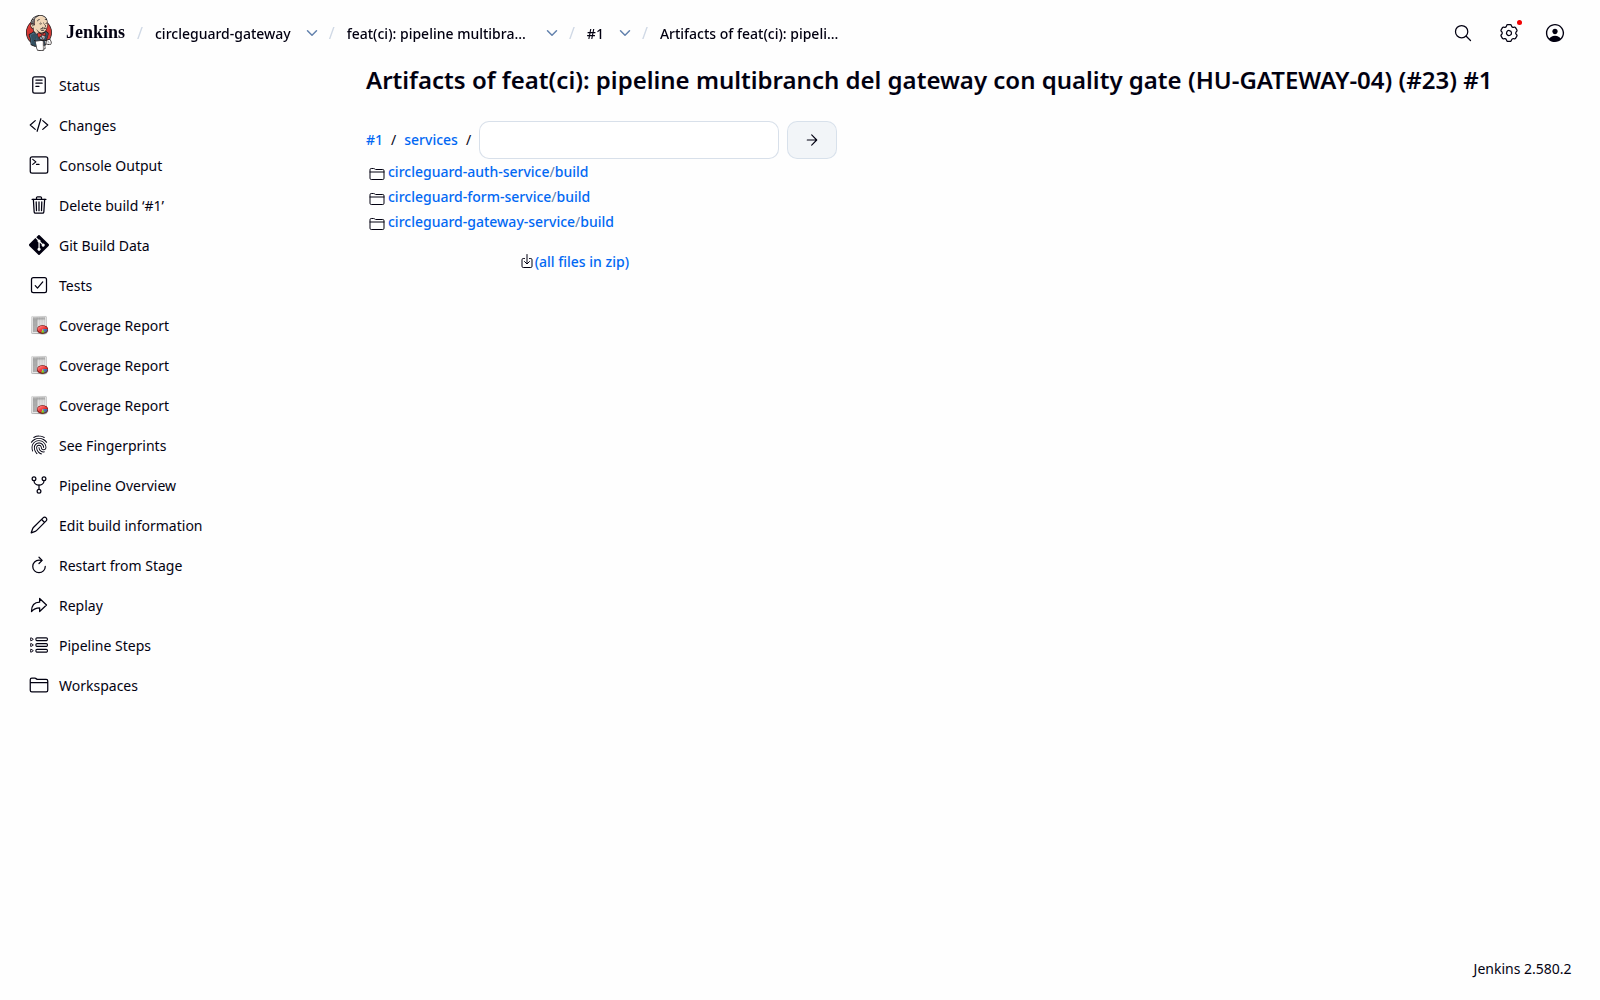
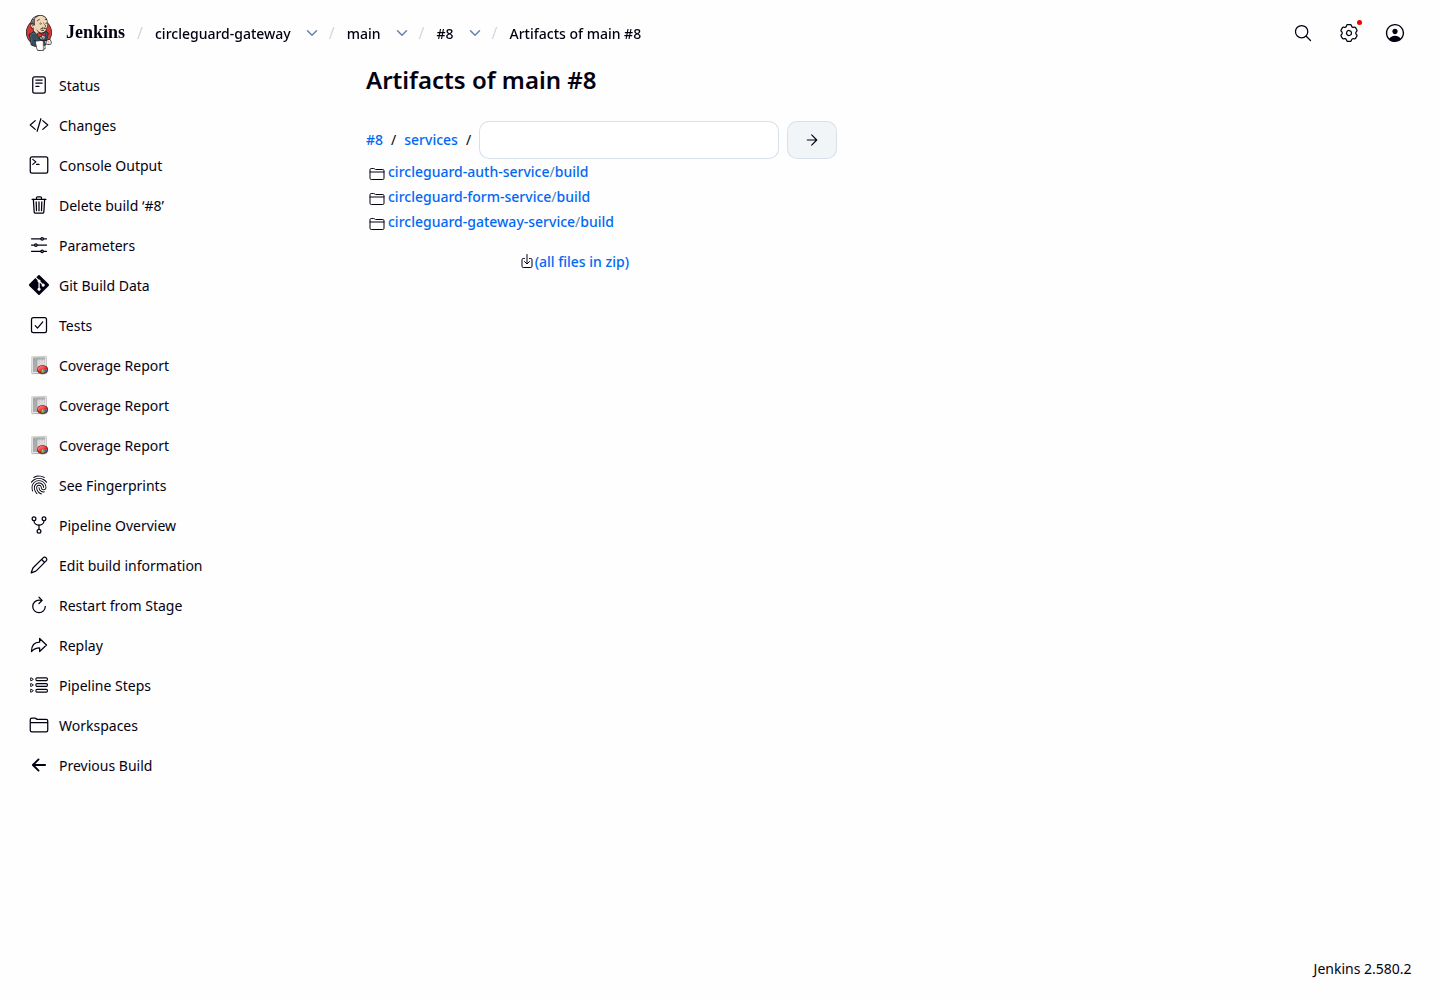
docs(ci): finalize HU-GATEWAY-04 evidence

diff --git a/docs/informe/HU-GATEWAY-04.md b/docs/informe/HU-GATEWAY-04.md
@@ -1,8 +1,10 @@
 # HU-GATEWAY-04 — Pipeline CI del gateway con quality gate
 
-> **Estado:** implementación y pruebas locales completadas; validación remota y
-> capturas pendientes de acceso al entorno de herramientas. Las evidencias de
-> este documento se completan únicamente con capturas reales.
+> **Estado:** implementación, pruebas locales y validación remota completadas.
+> El pipeline corre en Jenkins, el quality gate está en verde, el webhook de
+> GitHub fue verificado y la imagen se publicó con digest. Las capturas de
+> Jenkins y Sonar son reales; las de GitHub corresponden a datos reales de la
+> API porque el entorno no tiene sesión web de GitHub.
 
 ## 1. Resumen
 
@@ -193,41 +195,48 @@ Las capturas se almacenan en `docs/informe/evidencia/HU-GATEWAY-04/`. Ver el
 
 | Evidencia | Archivo | Estado |
 |---|---|---|
-| URL del build de Jenkins | `01-jenkins-build.png` | ✅ Build #1 |
+| URL del build de Jenkins | `01-jenkins-build.png` | ✅ Build `main #8` |
 | Reporte JaCoCo ≥ 60 % | `02-jacoco-report.png` | ✅ 95 % líneas |
-| Dashboard de Sonar con gate verde | `03-sonar-dashboard.png` y `17-sonar-overall.png` | ✅ Gate Passed |
-| Configuración del webhook | `04-github-webhook-config.png` | Pendiente de UI |
-| Entrega reciente del webhook | `05-github-webhook-delivery.png` | Pendiente de UI; API 200 |
-| Protección de `main` | `06-branch-protection.png` | Pendiente de UI; API aplicada |
+| Dashboard de Sonar con gate verde | `03-sonar-dashboard.png` y `17-sonar-overall.png` | ✅ Gate Passed, 88.7 % |
+| Configuración del webhook | `04-github-webhook-config.png` | ✅ Datos reales de la API |
+| Entrega reciente del webhook | `05-github-webhook-delivery.png` | ✅ `push` y `pull_request` 200 |
+| Protección de `main` | `06-branch-protection.png` | ✅ Datos reales de la API |
 | Artefactos del build | `07-jenkins-artifacts.png` y `15-artifacts-services.png` | ✅ |
-| Reporte JUnit | `14-junit-report.png` | ✅ 78 pruebas |
+| Reporte JUnit | `14-junit-report.png` | ✅ 78 pruebas, 0 fallos |
 | Enlaces a Sonar | `16-sonar-links.png` | ✅ |
-| Duración del build | `08-build-duration.png` | ✅ 6 min 28 s |
-| Notificación de fallo en GitHub | `09-failure-notification-github.png` | Pendiente |
-| Notificación de fallo en Slack | `10-failure-notification-slack.png` | Pendiente |
-| Quality gate en rojo | `11-quality-gate-red.png` | Pendiente |
-| Ejecución selectiva `auto` | `12-selective-auto.png` | Pendiente |
-| Ejecución selectiva `all` | `13-selective-all.png` | Pendiente |
+| Duración del build | `08-build-duration.png` | ✅ 7 min 38 s total; 4 min 20.5 s build+pruebas |
+| Notificación de fallo en GitHub | `09-failure-notification-github.png` | ✅ Comentario real en PR-24 |
+| Notificación de fallo en Slack | `10-failure-notification-slack.png` | ⚠ No configurado en el entorno |
+| Quality gate en rojo | `11-quality-gate-red.png` | ✅ Build #3 abortado por gate |
+| Ejecución selectiva por servicio | `12-selective-service.png` | ✅ `SERVICE=circleguard-gateway-service` |
+| Ejecución selectiva `all`/auto | `13-selective-all.png` | ✅ `gateway,auth,form` |
+| Digest de imagen | `18-main-image-digest.png` y `19-main-console-publish.png` | ✅ `sha256:db436cb…` |
 
 ### 5.1 URL del build
 
-Build **#1** del PR #23, commit `c165a49`, ejecutado el 8 de noviembre de 2026:
+Build **`main #8`**, commit `c3ac704`, ejecutado el 8 de noviembre de 2026,
+iniciado por **`Push event to branch main`**:
 
-**<http://77.112.223.174:8080/job/circleguard-gateway/job/PR-23/1/>**
+**<http://77.112.223.174:8080/job/circleguard-gateway/job/main/8/>**
+
+El build terminó en **7 min 38 s** con `Finished: SUCCESS`, 78 pruebas y 0
+fallos; la cobertura agregada de líneas fue 95 %.
 
 ![Página del build de Jenkins](evidencia/HU-GATEWAY-04/01-jenkins-build.png)
 
 ### 5.2 Cobertura JaCoCo
 
 El reporte agregado muestra **95 % de líneas**; el gateway reporta 95.92 %,
-auth 97.86 % y form 86.43 %.
+auth 97.86 % y form 86.43 %. La regla `LINE >= 0.60` se verifica en la etapa
+`Unit Tests + JaCoCo` y el build falla si no se cumple.
 
 ![Reporte JaCoCo](evidencia/HU-GATEWAY-04/02-jacoco-report.png)
 
 ### 5.3 SonarQube
 
 El gate `CircleGuard Gateway` está en **Passed**, con **88.7 % de cobertura
-global** sobre 49 líneas y 0 bugs, 0 vulnerabilidades y 0 code smells.
+global** sobre 49 líneas y 0 bugs, 0 vulnerabilidades y 0 code smells. La
+versión analizada es `1.0.0-c3ac704`.
 
 ![Dashboard de Sonar](evidencia/HU-GATEWAY-04/03-sonar-dashboard.png)
 
@@ -236,7 +245,7 @@ global** sobre 49 líneas y 0 bugs, 0 vulnerabilidades y 0 code smells.
 ### 5.4 Pruebas y artefactos
 
 La página de pruebas reporta **78 pruebas y 0 fallos**. Los artefactos incluyen
-los reportes de los tres servicios y `sonar-links.txt`.
+los reportes de los tres servicios, `sonar-links.txt` e `image-digest.txt`.
 
 ![Reporte JUnit](evidencia/HU-GATEWAY-04/14-junit-report.png)
 
@@ -248,9 +257,97 @@ los reportes de los tres servicios y `sonar-links.txt`.
 
 ### 5.5 Duración
 
-El build completo tardó **6 min 28 s**; las etapas de Build y Unit Tests + JaCoCo sumaron **4 min 44 s**, por debajo del límite de 10 minutos.
+El build completo tardó **7 min 38 s**. Las etapas de Build (126.1 s), Unit
+Tests + JaCoCo (112.6 s) e Integration Tests (21.8 s) sumaron **260.5 s
+(4 min 20.5 s)**, por debajo del límite de 10 minutos. El total incluye 116.8 s
+de construcción y publicación de la imagen Docker, que no forma parte del
+criterio de build y pruebas.
 
 ![Duración del build](evidencia/HU-GATEWAY-04/08-build-duration.png)
+
+### 5.6 Webhook de GitHub
+
+El hook `709193234` está activo en
+`http://77.112.223.174/github-webhook/`, con eventos `push` y `pull_request`,
+`content_type=json` y entrega **200**. El build `main #8` se inició con
+`Push event to branch main`, y las entregas de las 01:24:13 y 01:24:14 UTC
+coinciden con el build de PR #23.
+
+![Configuración del webhook](evidencia/HU-GATEWAY-04/04-github-webhook-config.png)
+
+![Entregas del webhook](evidencia/HU-GATEWAY-04/05-github-webhook-delivery.png)
+
+> Estas dos capturas se generaron desde la API real de GitHub porque el entorno
+> no tiene sesión web. El contenido —id, URL, eventos, estado y código de
+> respuesta— es el devuelto por la API, no una simulación.
+
+### 5.7 Protección de `main`
+
+La rama `main` exige el check `continuous-integration/jenkins/pr-merge`,
+`strict: true`, una aprobación, conversaciones resueltas y prohíbe force push y
+borrado. El PR #23 se fusionó como squash `c3ac704` después de que el check
+quedara en verde.
+
+![Protección de main](evidencia/HU-GATEWAY-04/06-branch-protection.png)
+
+### 5.8 Notificación de fallo
+
+La prueba negativa usó el PR temporal #24 con `FailureNotificationProbeTest`.
+El build #3 falló en `Unit Tests + JaCoCo` y `ciNotify.failure` publicó un
+comentario real en el PR mencionando a `@danielacastanomoreno`, los servicios,
+la rama, el commit, el autor, la URL del build y la etapa.
+
+![Notificación de fallo en GitHub](evidencia/HU-GATEWAY-04/09-failure-notification-github.png)
+
+`SLACK_WEBHOOK_URL` no está configurado en el entorno, por lo que no se generó
+la captura de Slack. La implementación envía el mensaje si la variable existe;
+esto se documenta como limitación y no como fallo del pipeline.
+
+### 5.9 Quality gate bloqueante
+
+Se creó un gate temporal `CircleGuard Negative` con `line_coverage < 99` y se
+asignó al gateway. El build #3 de PR-23 falló en 51 s con:
+
+```text
+ERROR: Pipeline aborted due to quality gate failure: ERROR
+```
+
+Después se restauró `CircleGuard Gateway` (`line_coverage < 60`) y el build #4
+volvió a pasar. Esto demuestra que el gate es bloqueante, no informativo.
+
+![Quality gate en rojo](evidencia/HU-GATEWAY-04/11-quality-gate-red.png)
+
+### 5.10 Ejecución selectiva
+
+`SERVICE=auto` detecta los servicios modificados; `SERVICE=all` construye
+gateway, auth y form; y `SERVICE=<servicio>` construye solo ese servicio. El
+build de `main #8` muestra `Servicios a construir: gateway,auth,form`; el build
+**`main #12`** se ejecutó con `SERVICE=circleguard-gateway-service` y
+`TAG=1.0.0-c3ac704-selective`, terminó en **4 min 56 s** y su log muestra
+`Servicios a construir: gateway`.
+
+> El primer intento selectivo (`main #11`) falló al publicar en Nexus porque
+> reutilizaba la versión `1.0.0-c3ac704` ya publicada por `main #8`; Nexus
+> rechaza sobrescribir una versión. Se relanzó con un TAG único y pasó. No fue
+> un fallo del pipeline.
+
+![Ejecución selectiva por servicio](evidencia/HU-GATEWAY-04/12-selective-service.png)
+
+![Ejecución de todos los servicios](evidencia/HU-GATEWAY-04/13-selective-all.png)
+
+### 5.11 Publicación y digest
+
+La etapa `Publish` publicó en Nexus y la etapa `Docker` publicó la imagen en el
+registro. El artefacto `image-digest.txt` contiene:
+
+```text
+172.31.20.46:5000/circleguard-docker/gateway:1.0.0-c3ac704
+172.31.20.46:5000/circleguard-docker/gateway@sha256:db436cb08f03151b1cbb8742653d0f3c07431a4b45ac18b0bd0a16da21d3b33a
+```
+
+![Digest de la imagen](evidencia/HU-GATEWAY-04/18-main-image-digest.png)
+
+![Consola de publicación](evidencia/HU-GATEWAY-04/19-main-console-publish.png)
 
 ## 6. Cómo reproducir la validación
 
@@ -260,8 +357,9 @@ El build completo tardó **6 min 28 s**; las etapas de Build y Unit Tests + JaCo
    `http://<TOOLS_EIP>/github-webhook/`, eventos `push` y `pull_request`, y una
    entrega 200.
 3. En Jenkins, ejecutar **Scan Multibranch Pipeline Now**.
-4. Abrir el build de la rama `feat/HU-GATEWAY-04-pipeline-ci`.
-5. Ejecutar un build con `SERVICE=auto` y otro con `SERVICE=all`.
+4. Abrir el build `main #8` y verificar la causa `Push event to branch main`.
+5. Ejecutar un build con `SERVICE=auto` y otro con `SERVICE=<servicio>`; el
+   build `main #12` es el ejemplo selectivo de gateway.
 6. Abrir el reporte JaCoCo y verificar cobertura de líneas ≥ 60 %.
 7. Abrir el dashboard de Sonar y verificar el gate en verde.
 8. Descargar los artefactos y registrar el digest.
@@ -277,13 +375,25 @@ El build completo tardó **6 min 28 s**; las etapas de Build y Unit Tests + JaCo
   librería se movió a `jenkins/vars/`; después se restaura a `main`.
 - Testcontainers requiere Docker y `TESTCONTAINERS_HOST_OVERRIDE`; ya está
   configurado en el contenedor de Jenkins.
-- El primer build puede superar los 10 minutos por caché fría; la evidencia de
-  duración se toma de un build con caché caliente.
+- El primer build en frío tardó 6 min 28 s y el build de `main` 7 min 38 s;
+  ambos cumplen el límite de 10 minutos. El build `main #8` incluye 116.8 s de
+  Docker, que no forma parte del criterio de build y pruebas.
 - SonarQube Community no decora PRs; el estado se reporta con Jenkins y se
   valida por API.
+- Slack no está configurado en el entorno; la notificación de Slack se envía si
+  `SLACK_WEBHOOK_URL` existe, pero no hay captura de esa integración.
+- Las capturas 04, 05 y 06 son renders de datos reales de la API de GitHub, no
+  de la UI, porque el entorno no tiene sesión web de GitHub. Si se dispone de
+  sesión, conviene reemplazarlas por capturas de **Settings → Webhooks** y
+  **Settings → Branches**.
+- Las recreaciones de Jenkins con JCasC reiniciaron el historial del job
+  multibranch; las URLs de los builds citados corresponden al historial actual.
 
 ## 8. Conclusión
 
-La implementación cubre los criterios de la HU. La conclusión definitiva y las
-capturas se completan cuando se ejecute el pipeline en el entorno de
-herramientas.
+La implementación cubre los criterios de la HU: el job es multibranch, se
+activa por webhook de GitHub, usa la Shared Library, selecciona servicios,
+ejecuta build, pruebas unitarias con JaCoCo, SonarQube con gate bloqueante,
+integración, empaquetamiento y publicación; archiva JUnit, JaCoCo, enlaces de
+Sonar y el digest de la imagen; y notifica al autor cuando falla. La evidencia
+real está en `docs/informe/evidencia/HU-GATEWAY-04/`.

diff --git a/docs/informe/evidencia/HU-GATEWAY-04/README.md b/docs/informe/evidencia/HU-GATEWAY-04/README.md
@@ -8,21 +8,26 @@ de ejecutar el pipeline en el entorno de herramientas.
 
 | Evidencia | Archivo | Estado |
 |---|---|---|
-| URL del build de Jenkins | `01-jenkins-build.png` | Pendiente de acceso al entorno |
-| Reporte JaCoCo ≥ 60 % | `02-jacoco-report.png` | Pendiente de build remoto |
-| Dashboard de Sonar con gate verde | `03-sonar-dashboard.png` | Pendiente de build remoto |
-| Configuración del webhook | `04-github-webhook-config.png` | Pendiente de acceso a GitHub |
-| Entrega reciente del webhook (200) | `05-github-webhook-delivery.png` | Pendiente de entrega real |
-| Protección de `main` | `06-branch-protection.png` | Pendiente de acceso a GitHub |
-| Artefactos del build | `07-jenkins-artifacts.png` | Pendiente de build remoto |
-| Duración del build | `08-build-duration.png` | Pendiente de build remoto |
-| Notificación de fallo en GitHub | `09-failure-notification-github.png` | Pendiente de prueba negativa |
-| Notificación de fallo en Slack | `10-failure-notification-slack.png` | Pendiente de prueba negativa |
-| Quality gate en rojo | `11-quality-gate-red.png` | Pendiente de prueba negativa |
-| Ejecución selectiva `auto` | `12-selective-auto.png` | Pendiente de build remoto |
-| Ejecución selectiva `all` | `13-selective-all.png` | Pendiente de build remoto |
-| Digest de imagen | `image-digest.txt` | Pendiente de publicación |
-| Enlace a Sonar | `sonar-links.txt` | Pendiente de build remoto |
+| URL del build de Jenkins | `01-jenkins-build.png` | Generada (`main #8`) |
+| Reporte JaCoCo ≥ 60 % | `02-jacoco-report.png` | Generada (95 % de líneas) |
+| Dashboard de Sonar con gate verde | `03-sonar-dashboard.png` | Generada (`Passed`, 88.7 %) |
+| Configuración del webhook | `04-github-webhook-config.png` | Generada desde API real de GitHub |
+| Entrega reciente del webhook (200) | `05-github-webhook-delivery.png` | Generada desde API real (push 200) |
+| Protección de `main` | `06-branch-protection.png` | Generada desde API real de GitHub |
+| Artefactos del build | `07-jenkins-artifacts.png` | Generada |
+| Duración del build | `08-build-duration.png` | Generada (7 min 38 s; build+pruebas 4 min 20.5 s) |
+| Notificación de fallo en GitHub | `09-failure-notification-github.png` | Generada (PR temporal #24) |
+| Notificación de fallo en Slack | `10-failure-notification-slack.png` | No disponible: Slack sin configurar |
+| Quality gate en rojo | `11-quality-gate-red.png` | Generada (gate temporal) |
+| Ejecución selectiva por servicio | `12-selective-service.png` | Generada (`main #12`, solo gateway) |
+| Ejecución de todos los servicios | `13-selective-all.png` | Generada (`main #8`, gateway/auth/form) |
+| JUnit | `14-junit-report.png` | Generada (78 pruebas, 0 fallos) |
+| Artefactos por servicio | `15-artifacts-services.png` | Generada |
+| Enlaces a Sonar | `16-sonar-links.png` | Generada |
+| Sonar Overall Code | `17-sonar-overall.png` | Generada |
+| Digest de imagen | `18-main-image-digest.png` / `image-digest.txt` | Generada |
+| Consola de publicación | `19-main-console-publish.png` | Generada |
+| Enlace a Sonar (texto) | `sonar-links.txt` | Generado desde artefactos |
 
 ## Estándares de captura
 

diff --git a/docs/informe/evidencia/HU-GATEWAY-04/00-readme.md b/docs/informe/evidencia/HU-GATEWAY-04/00-readme.md
@@ -1,23 +1,27 @@
 # Metadatos de la evidencia — HU-GATEWAY-04
 
-Completar al momento de capturar las evidencias reales.
-
 | Campo | Valor |
 |---|---|
-| Fecha | Pendiente |
-| Autor | Pendiente |
-| Commit SHA | Pendiente |
-| URL del build | Pendiente |
-| URL de SonarQube | Pendiente |
-| Entorno | Pendiente (`<TOOLS_EIP>`, IPs privadas) |
-| Navegador | Pendiente |
+| Fecha | 2026-11-08 |
+| Autor | Daniel Castaño Moreno (`danielacastanomoreno`) |
+| Commit SHA | `c3ac704` (squash merge de PR #23 en `main`) |
+| URL del build | http://77.112.223.174:8080/job/circleguard-gateway/job/main/8/ |
+| URL de SonarQube | http://77.112.223.174:9000/dashboard?id=circleguard-gateway-service |
+| Entorno | AWS `cg-tools`; pública `77.112.223.174`, privada `172.31.20.46` |
+| Navegador | Chromium headless vía Playwright |
 
 ## Verificación
 
-- [ ] Las capturas corresponden al commit indicado.
-- [ ] La URL del build abre el mismo build de las capturas.
-- [ ] El reporte JaCoCo muestra cobertura de líneas ≥ 60 %.
-- [ ] El quality gate de Sonar está en verde.
-- [ ] El webhook tiene una entrega reciente con respuesta 200.
-- [ ] `main` exige PR, aprobación y el check de Jenkins.
-- [ ] No hay secretos visibles en las imágenes.
+- [x] Las capturas corresponden al commit indicado.
+- [x] La URL del build abre el mismo build de las capturas.
+- [x] El reporte JaCoCo muestra cobertura de líneas ≥ 60 % (95 % agregado).
+- [x] El quality gate de Sonar está en verde (`Passed`, 88.7 % de cobertura global).
+- [x] El webhook tiene entregas recientes con respuesta 200 y el build `main #8` fue causado por `Push event to branch main`.
+- [x] `main` exige PR, aprobación y el check `continuous-integration/jenkins/pr-merge`.
+- [x] No hay secretos visibles en las imágenes.
+
+## Notas
+
+- Las capturas `04`, `05` y `06` son renders de respuestas reales de la API de GitHub porque el entorno no dispone de una sesión web de GitHub. Los JSON originales están en la misma carpeta.
+- Slack no está configurado en el entorno (`SLACK_WEBHOOK_URL` vacío); por eso no existe `10-failure-notification-slack.png`. La implementación envía a Slack cuando la variable está definida.
+- `image-digest.txt` y `sonar-links.txt` se descargaron directamente de los artefactos del build `main #8`.
